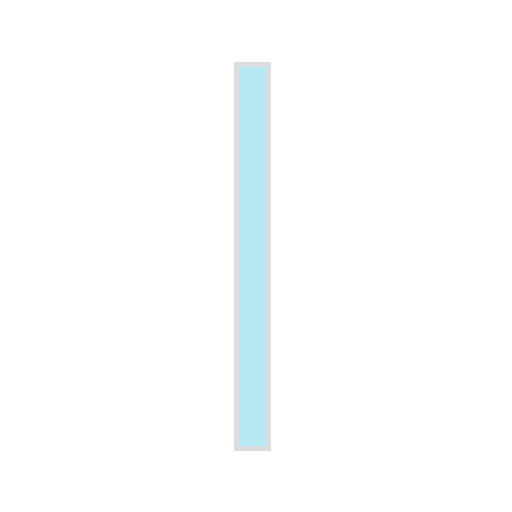
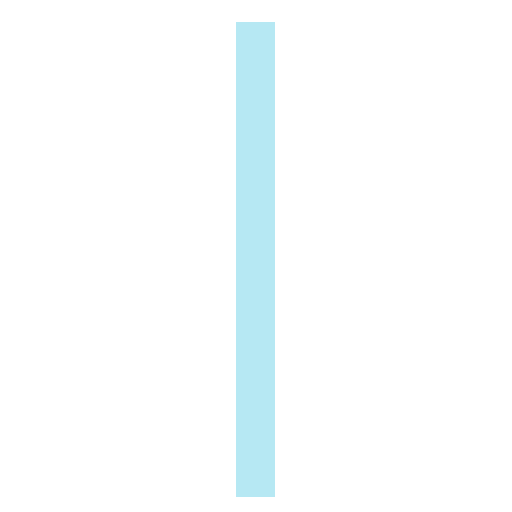
Add files via upload
Now?

Changed region(s): [[0.4375, 0.0312, 0.5625, 0.9688]]

diff --git a/index.html b/index.html
@@ -3,12 +3,12 @@
 <head>
     <meta charset="UTF-8">
     <title>Six Favicon</title>
-    <link rel="apple-touch-icon" sizes="180x180" href="./apple-touch-icon.png">
-<link rel="icon" type="image/png" sizes="32x32" href="./favicon-32x32.png">
-<link rel="icon" type="image/png" sizes="16x16" href="./favicon-16x16.png">
+    <link rel="apple-touch-icon" sizes="180x180" href="./apple-touch-icon.png?v=2">
+<link rel="icon" type="image/png" sizes="32x32" href="./favicon-32x32.png?v=2">
+<link rel="icon" type="image/png" sizes="16x16" href="./favicon-16x16.png?v=2">
 </head>
 <body>
     <!-- Sidan kan vara helt tom eller ha en enkel text -->
-     <pre> Chrome Divider </pre>
+     <pre style="color: #B6E8F3; font-family: sans-serif; font-weight: bold;"> Chrome | Divider </pre>
 </body>
 </html>
